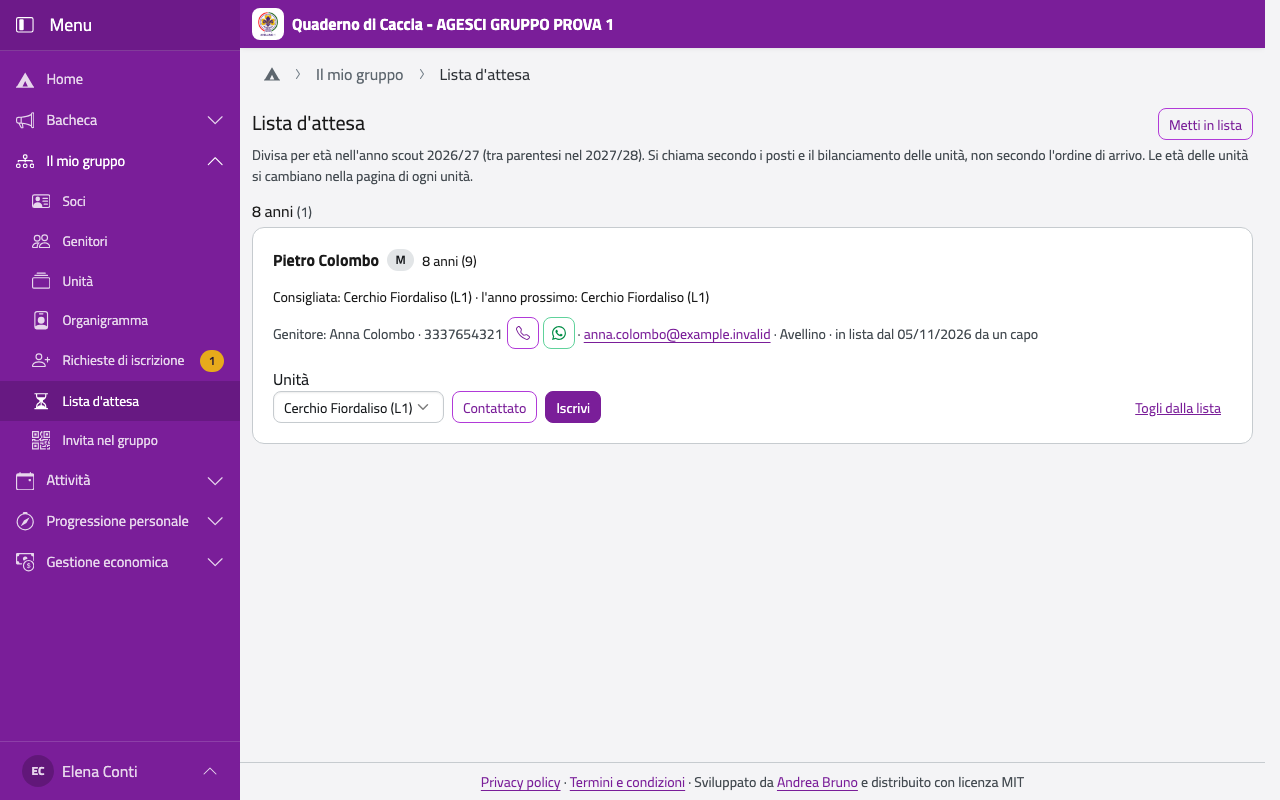
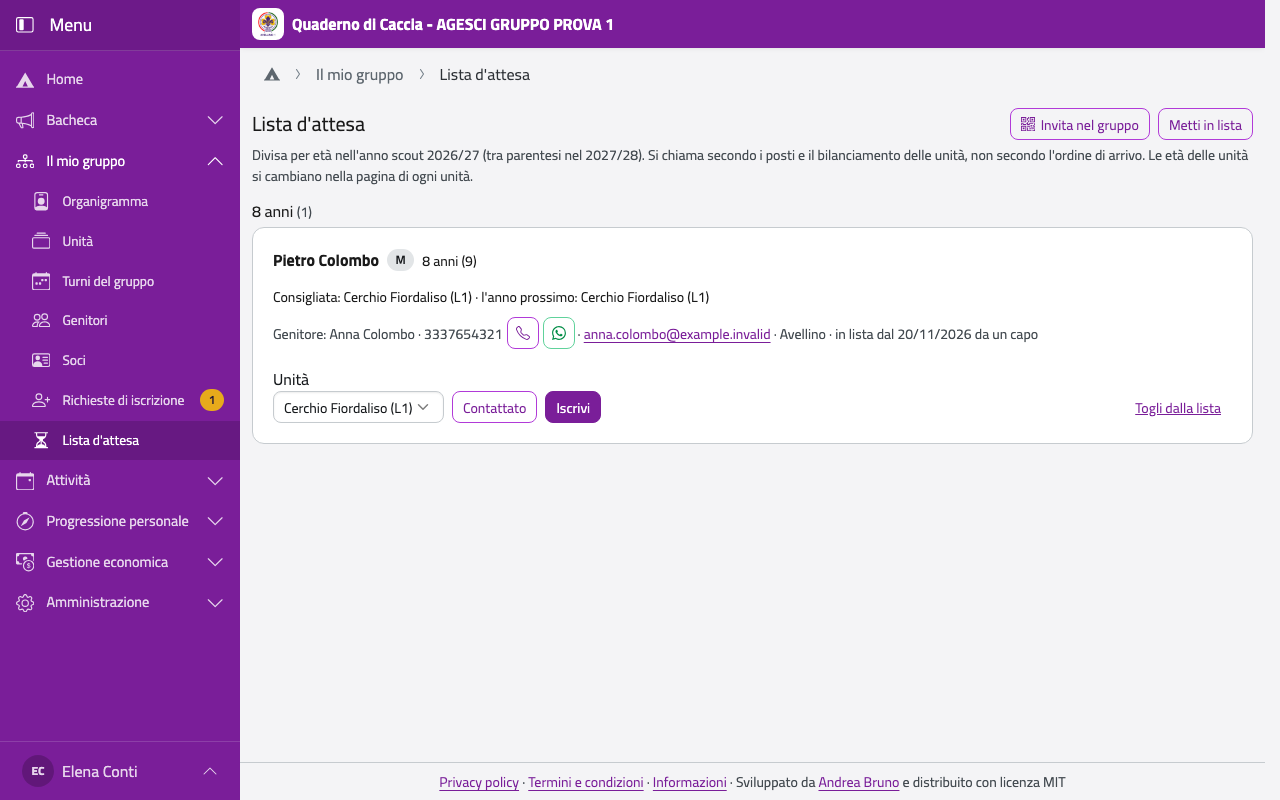
Waiting list: link to the invitation page at the top for the capi (#83)

diff --git a/frontend/src/__tests__/condividi.spec.ts b/frontend/src/__tests__/condividi.spec.ts
@@ -2,11 +2,12 @@ import { flushPromises, mount } from '@vue/test-utils'
 import { createPinia, setActivePinia } from 'pinia'
 import { afterEach, beforeEach, describe, expect, it, vi } from 'vitest'
 
-import type { Profilo } from '@/api/qdc'
+import { api, type ListaAttesa, type Profilo } from '@/api/qdc'
 import CondividiLink from '@/components/CondividiLink.vue'
 import QrCode from '@/components/QrCode.vue'
 import { indirizzoListaAttesa, moduliQr, percorsoQr } from '@/navigazione/condividi'
 import { useSessioneStore } from '@/stores/sessione'
+import AttesaView from '@/views/AttesaView.vue'
 import InvitaView from '@/views/InvitaView.vue'
 
 describe('lista d’attesa da condividere', () => {
@@ -86,5 +87,26 @@ describe('InvitaView', () => {
     expect(pagina.text()).not.toContain('Impostazioni')
     useSessioneStore().profilo = { capogruppo: true } as Profilo
     expect(monta().text()).toContain('Impostazioni')
+  })
+})
+
+describe('AttesaView', () => {
+  afterEach(() => vi.restoreAllMocks())
+
+  it('takes the capi to the link and QR code from the top of the list', async () => {
+    vi.spyOn(api, 'listaAttesa').mockResolvedValue({
+      anno: '2026/27',
+      anno_prossimo: '2027/28',
+      voci: [],
+      unita: [],
+      puo_inserire: true,
+    } as ListaAttesa)
+    const pagina = mount(AttesaView, {
+      global: { stubs: { RouterLink: { props: ['to'], template: '<a :href="to"><slot /></a>' } } },
+    })
+    await flushPromises()
+    const invita = pagina.find('a[href="/invita"]')
+    expect(invita.text()).toContain('Invita nel gruppo')
+    expect(pagina.text()).toContain('Metti in lista')
   })
 })

diff --git a/frontend/src/views/AttesaView.vue b/frontend/src/views/AttesaView.vue
@@ -1,7 +1,9 @@
 <script setup lang="ts">
 import { computed, onMounted, reactive, ref } from 'vue'
+import { RouterLink } from 'vue-router'
 
 import { api, type DatiAttesa, type ListaAttesa, type VoceAttesa } from '@/api/qdc'
+import Icona from '@/components/Icona.vue'
 import ModuloAttesa from '@/components/ModuloAttesa.vue'
 import Telefono from '@/components/Telefono.vue'
 import { useErrore } from '@/composables/useErrore'
@@ -108,14 +110,20 @@ async function inserisci() {
   <section>
     <div class="d-flex flex-wrap align-items-baseline gap-3 mb-1">
       <h1 class="h4 mb-0">Lista d'attesa</h1>
-      <button
-        v-if="lista?.puo_inserire && !nuovo"
-        type="button"
-        class="btn btn-sm btn-outline theme-primary ms-auto"
-        @click="nuovoInLista"
-      >
-        Metti in lista
-      </button>
+      <div class="d-flex flex-wrap gap-3 ms-auto">
+        <!-- The link, QR code and leaflet, also from here for the capi (DEC-415). -->
+        <RouterLink to="/invita" class="btn btn-sm btn-outline theme-primary">
+          <Icona nome="qr-code" /> Invita nel gruppo
+        </RouterLink>
+        <button
+          v-if="lista?.puo_inserire && !nuovo"
+          type="button"
+          class="btn btn-sm btn-outline theme-primary"
+          @click="nuovoInLista"
+        >
+          Metti in lista
+        </button>
+      </div>
     </div>
     <p class="small fg-2">
       Divisa per età nell'anno scout {{ lista?.anno }} (tra parentesi nel

diff --git a/docs/analisi/analisi-requisiti.md b/docs/analisi/analisi-requisiti.md
@@ -553,6 +553,7 @@ Decisa con il maintainer il 31/10/2026: chi vuole entrare nel gruppo si mette in
 | DEC-412 | **Calendario: ordine del giorno nel feed e creazione dal giorno** (cambia in parte DEC-365): nel feed iCal e nei file .ics l'ordine del giorno va come testo nelle note solo per le riunioni dei genitori e l'assemblea, la cui convocazione lo manda già per email (DEC-364); per la Co.Ca. e lo staff c'è solo il link alla riunione nell'app, e il testo non esce dall'app. Nel calendario del mese ogni giorno da oggi in poi (non quelli grigi dei mesi accanto) ha in alto a destra un piccolo «+» con un'area da toccare più grande del disegno: apre un menu con «Nuova riunione» e «Nuovo evento» secondo i permessi, che porta al modulo con quel giorno già compilato; con un solo permesso apre subito quel modulo. Lo vede chiunque il server autorizzi a creare una riunione o un evento, ragazzi compresi (per esempio il capo squadriglia o chi ha la delega per le riunioni di squadriglia, DEC-267); il tipo di riunione si sceglie nel modulo. Gli eventi su BuonaCaccia restano nella loro pagina (scelte confermate il 14/11). | DEC-267, DEC-286, DEC-364, DEC-365, issue #78, 14/11 |
 | DEC-413 | **Eliminare una riunione** (oltre ad annullarla, DEC-310): una riunione, singola o di una serie, si può eliminare del tutto, sempre: con lei vanno presenze, partecipazioni, verbale, ordine del giorno e allegati; prima una conferma dice che cosa si perde. Una riunione senza niente collegato la elimina chi la gestisce (chi oggi la annulla o la sposta); con presenze o verbale solo un capogruppo. Chi elimina sceglie se avvisare gli invitati con una spunta «Avvisa gli invitati» (la stessa email dell'annullamento). Una riunione eliminata non conta nei turni, come una annullata (DEC-312). Il registro delle modifiche tiene traccia dell'eliminazione (scelte confermate il 14/11). | DEC-310, DEC-312, DEC-322, issue #79, 14/11 |
 | DEC-414 | **Invitati sempre allineati ai membri** (DEC-78, DEC-310): le riunioni e gli eventi futuri (non ancora finiti) seguono sempre chi è oggi nelle unità coinvolte; il passato resta com'è. Chi entra nell'unità è invitato subito a tutto ciò che è ancora da fare; chi esce è tolto dagli invitati di ciò che è ancora da fare, purché per lui non ci siano presenze segnate; una sua quota dell'evento non pagata si annulla da sola con il motivo «Non è più nell'unità», mentre con un pagamento anche parziale, o segnalato e in verifica, l'invito resta e decide lo staff (scelta confermata il 14/11); chi è stato escluso a mano con un motivo resta escluso. L'allineamento avviene quando cambia chi è nell'unità: importazione da BuonaStrada, passaggi eseguiti o annullati, iscrizioni accolte, uscite, bozza delle squadriglie applicata o annullata, non solo quando si apre la riunione. Vale anche per le riunioni di due unità collegate. Un passaggio preparato e non ancora eseguito conta già: dal giorno dopo la sua data i suoi ragazzi/e escono dagli invitati dell'unità di partenza (anche delle sue squadriglie e consigli) ed entrano in quelli dell'unità di arrivo (solo nelle riunioni e negli eventi di tutta l'unità). Dopo l'aggiornamento che porta la regola, `allinea_inviti` riallinea una volta quelli già creati, e ogni notte fa da rete di sicurezza (confermato il 14/11). | DEC-78, DEC-69, DEC-310, DEC-410, issue #80, 14/11 |
+| DEC-415 | **Invita nel gruppo dalla lista d'attesa dei capi** (DEC-304, DEC-383): in alto nella lista d'attesa dei capi, accanto al titolo, un collegamento porta a Invita nel gruppo (link, QR code e volantino), per tutti i capi che vedono la lista; resta anche nel menu del profilo. | DEC-259, DEC-304, DEC-383, issue #83, 20/11 |
 
 ## Architettura tecnica
 

diff --git a/docs/manuale/capo/iscrizioni.md b/docs/manuale/capo/iscrizioni.md
@@ -7,8 +7,8 @@ famiglia riceve un link per l'**iscrizione**, che lo staff dell'unità accoglie.
 
 Nella Home, in **Il mio gruppo**, tocca **Lista d'attesa**. La vedono tutti i capi.
 
-Per far conoscere la lista d'attesa (a una riunione con le famiglie, in parrocchia), in
-**Profilo** tocca **Invita nel gruppo**: il link da mandare, il QR code e un volantino da stampare
+Per far conoscere la lista d'attesa (a una riunione con le famiglie, in parrocchia), tocca
+**Invita nel gruppo** in alto nella lista d'attesa, oppure in **Profilo**: il link da mandare, il QR code e un volantino da stampare
 (vedi [Invitare altre famiglie](../genitore/lista-attesa.md#invitare-altre-famiglie)). Lo
 trovano anche i genitori e i ragazzi/e.
 
